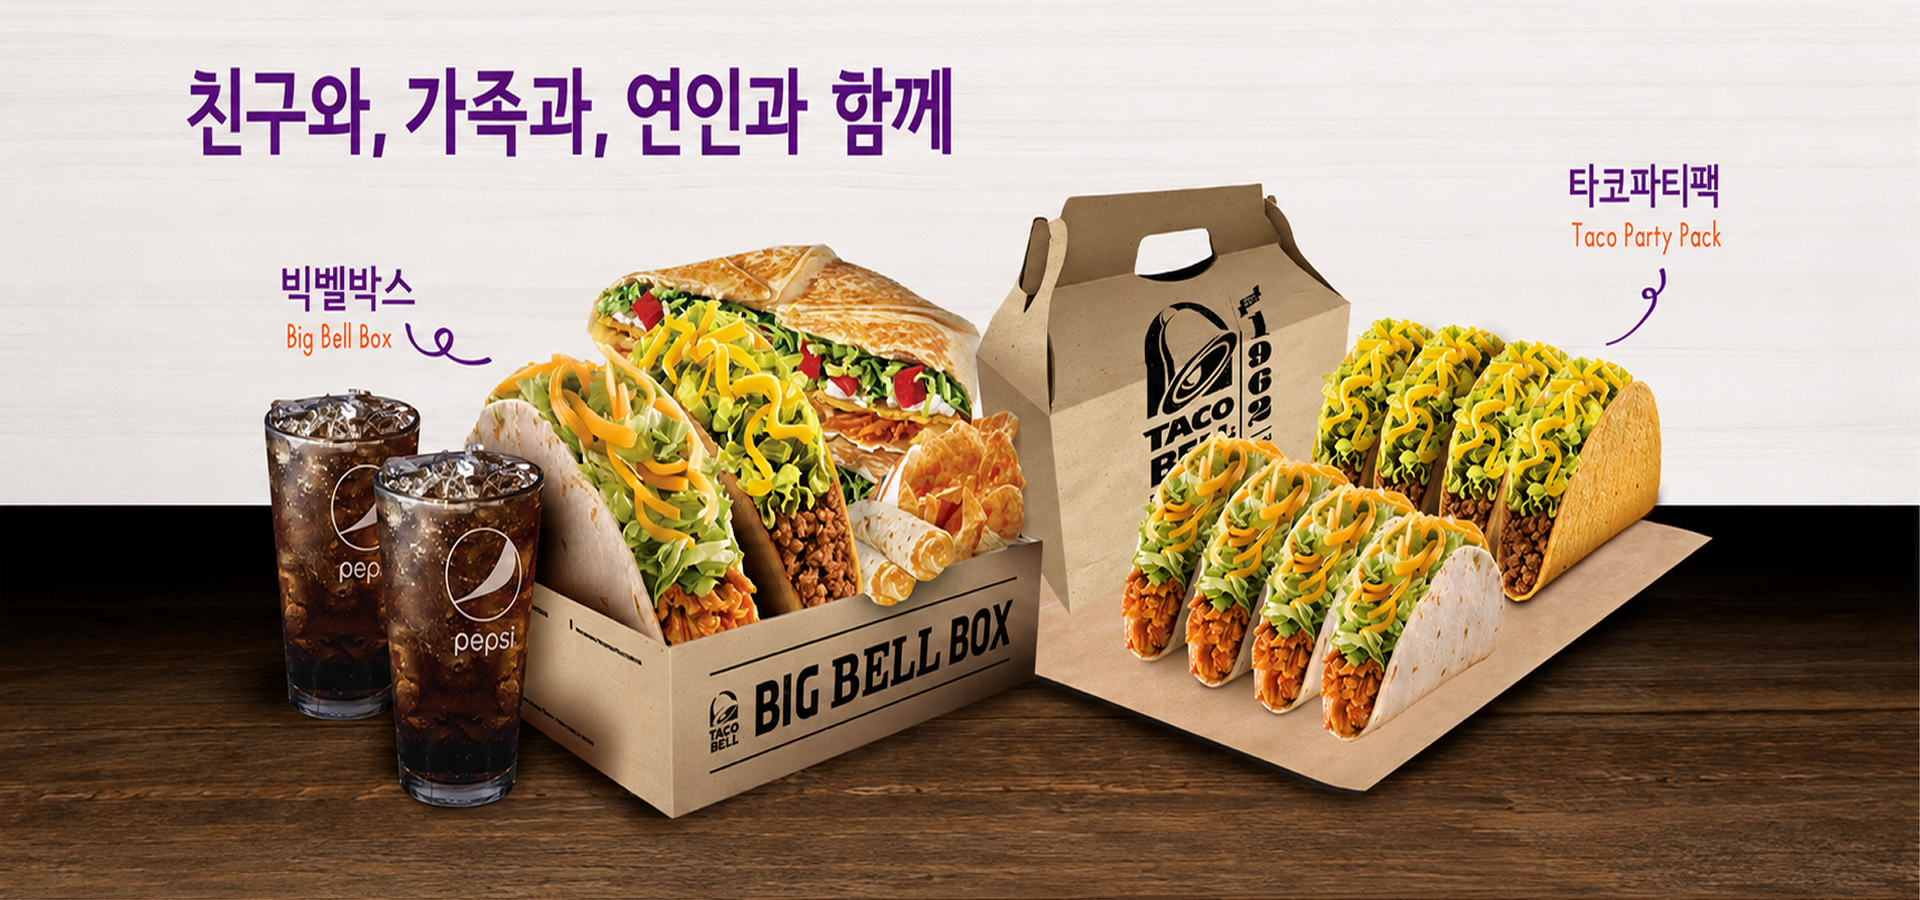
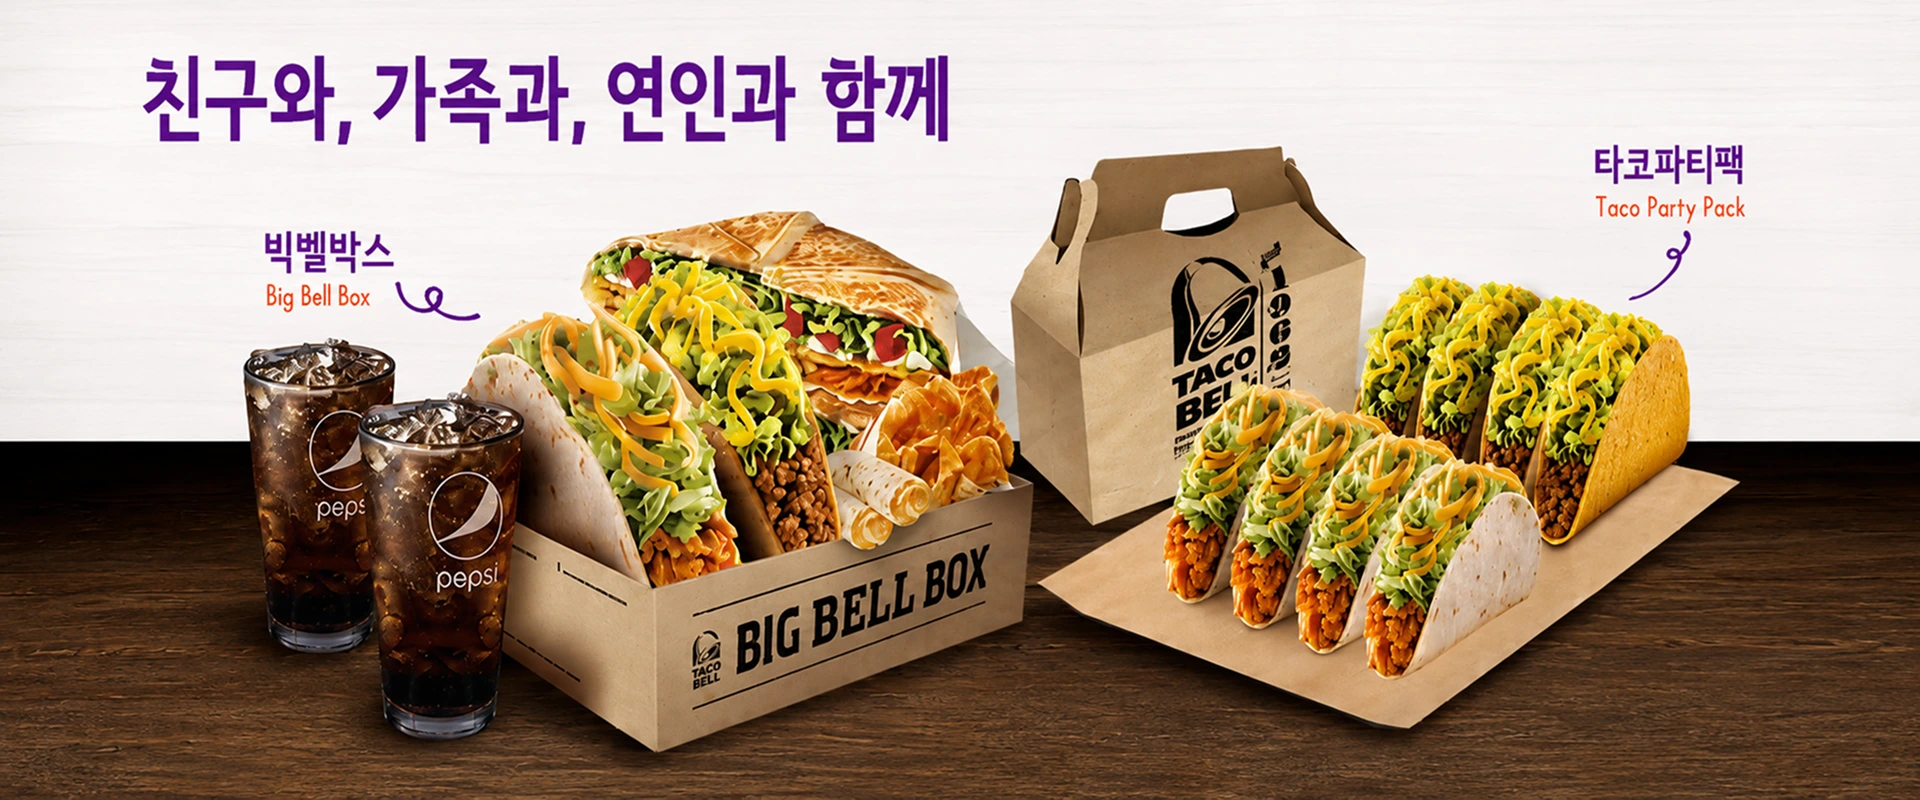
feat: 배너 수정

diff --git a/src/components/Banner.jsx b/src/components/Banner.jsx
@@ -1,9 +1,13 @@
 import styled from "@emotion/styled";
-import React from "react";
+import React, { useEffect, useState } from "react";
 import bannerImg from "../assets/banners/banner1.webp";
+import { AllBanner } from "../apis/banner";
 
 const BannerContainer = styled.div`
   position: relative;
+  margin: 0 5px;
+  border-radius: 15px;
+  overflow: hidden;
 `;
 
 const BannerImg = styled.img`
@@ -23,8 +27,8 @@ const BannerImg = styled.img`
 const Indicator = styled.div`
   padding: 0 5px;
   position: absolute;
-  left: 100px;
   right: 100px;
+  width: 50%;
   bottom: 45px;
   display: flex;
   height: 5px;
@@ -33,11 +37,9 @@ const Indicator = styled.div`
   z-index: 10;
 
   @media (max-width: 1024px) {
-    left: 50px;
     right: 50px;
   }
   @media (max-width: 375px) {
-    left: 20px;
     right: 20px;
   }
 `;
@@ -45,27 +47,53 @@ const Indicator = styled.div`
 const CurrentIndicator = styled.div`
   display: flex;
   align-self: center;
-  width: 500px;
+  width: ${({ count }) => 100 / count}%;
   height: 10px;
   border-radius: 15px;
   background-color: #9b00ff;
+  transform: translateX(${({ current }) => current * 100}%);
+
+  transition: transform 0.5s ease;
 
   @media (max-width: 1024px) {
-    width: 300px;
+    /* width: 300px; */
     height: 7px;
   }
   @media (max-width: 375px) {
-    width: 100px;
+    /* width: 100px; */
     height: 7px;
   }
 `;
 
 export default function Banner() {
+  const [current, setCurrent] = useState(0);
+
+  useEffect(() => {
+    const timer = setInterval(() => {
+      setCurrent((prev) => (prev + 1) % AllBanner.length);
+    }, 3000);
+
+    return () => clearInterval(timer);
+  }, []);
+
+  const [width, setWidth] = useState(window.innerWidth);
+
+  useEffect(() => {
+    const resize = () => setWidth(window.innerWidth);
+
+    window.addEventListener("resize", resize);
+
+    return () => window.removeEventListener("resize", resize);
+  }, []);
+
+  const currentBanner = AllBanner[current];
+
+  const bannerImages = width <= 375 ? currentBanner.mobile : width <= 1024 ? currentBanner.tablet : currentBanner.img;
   return (
     <BannerContainer>
-      <BannerImg src={bannerImg} />
+      <BannerImg src={bannerImages} />
       <Indicator>
-        <CurrentIndicator />
+        <CurrentIndicator current={current} count={AllBanner.length} />
       </Indicator>
     </BannerContainer>
   );

diff --git a/src/pages/StorePage.jsx b/src/pages/StorePage.jsx
@@ -1,4 +1,4 @@
-import React from "react";
+import React, { useState } from "react";
 import { AllStores } from "../apis/stores";
 import tacobellStore from "../assets/icons/tacobellstore.svg";
 import tacobellMap from "../assets/icons/tacobellmap.svg";
@@ -33,6 +33,25 @@ const MainText = styled.h3`
   @media (max-width: 375px) {
     font-size: 32px;
   }
+`;
+
+const RegionContainer = styled.div`
+  display: flex;
+  gap: 15px;
+  margin-bottom: 50px;
+`;
+
+const RegionButton = styled.button`
+  padding: 10px 25px;
+  border-radius: 30px;
+  border: none;
+  cursor: pointer;
+
+  background-color: ${({ active }) => (active ? "#8c73b7" : "#d9d9d9")};
+
+  color: ${({ active }) => (active ? "#fafafa" : "#0c0c0c")};
+
+  transition: 0.3s;
 `;
 
 const StoreContainer = styled.div`
@@ -163,11 +182,21 @@ const CallContainer = styled.a`
 `;
 
 export default function StorePage() {
+  const [region, setRegion] = useState("인천");
+  const regions = [...new Set(AllStores.map((item) => item.region))];
+  const filteredStores = AllStores.filter((item) => item.region === region);
   return (
     <Section>
       <MainText>TACO BELL's STORE</MainText>
+      <RegionContainer>
+        {regions.map((item) => (
+          <RegionButton key={item} active={region === item} onClick={() => setRegion(item)}>
+            {item}
+          </RegionButton>
+        ))}
+      </RegionContainer>
       <StoreContainer>
-        {AllStores.map((item) => (
+        {filteredStores.map((item) => (
           <StoreCardWrap key={item.id}>
             {/* <StoreRegion>{item.region}</StoreRegion> */}
             <StoreImgContainer>

diff --git a/src/apis/banner.js b/src/apis/banner.js
@@ -1,0 +1,12 @@
+import Banner1 from "../assets/banners/banner1.webp";
+import Banner1Tablet from "../assets/banners/banner1tablet.webp";
+import Banner1Mobile from "../assets/banners/banner1mobile.webp";
+
+import Banner2 from "../assets/banners/banner2.webp";
+import Banner2Tablet from "../assets/banners/banner2tablet.webp";
+import Banner2Mobile from "../assets/banners/banner2mobile.webp";
+
+export const AllBanner = [
+  { id: 1, img: Banner1, tablet: Banner1Tablet, mobile: Banner1Mobile },
+  { id: 2, img: Banner2, tablet: Banner2Tablet, mobile: Banner2Mobile },
+];